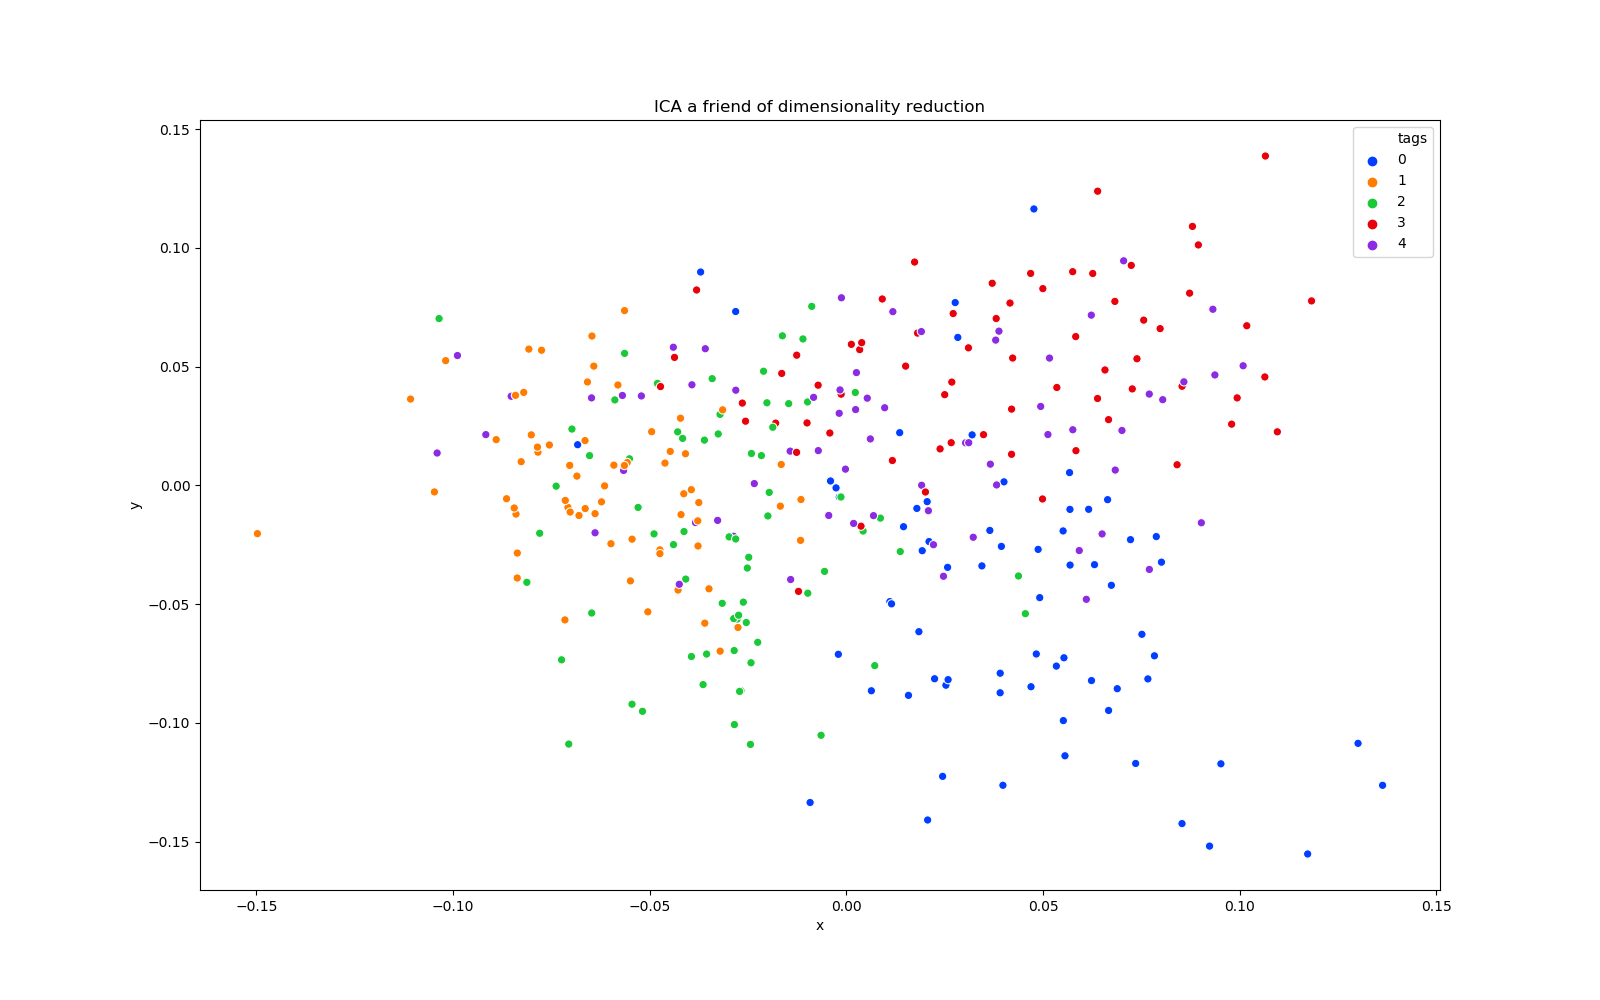
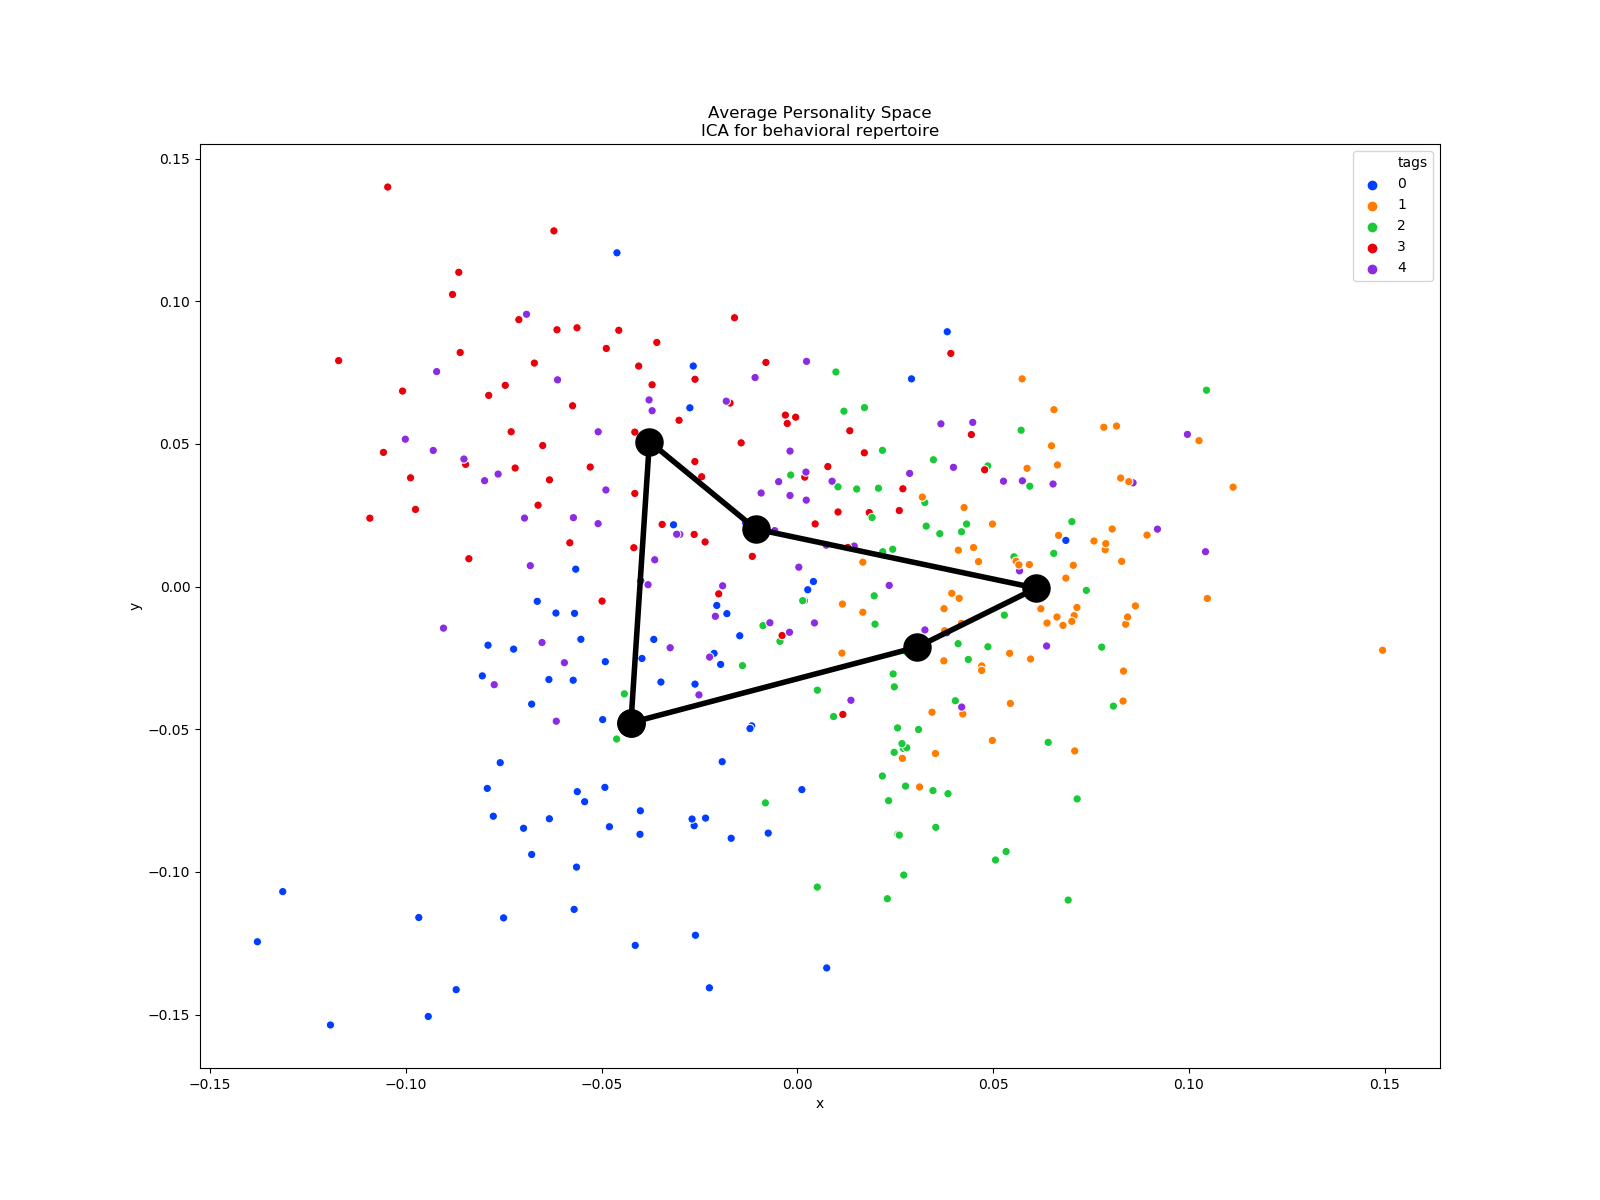
final edit

diff --git a/main_analysis.py b/main_analysis.py
@@ -10,30 +10,33 @@ import time
 import numpy as np
 import pandas as pd
 import matplotlib.pyplot as plt 
+import matplotlib
+matplotlib.use('Agg')
 import seaborn as sns
+from math import pi
 
 from sklearn.datasets import make_classification as mc
 from sklearn.decomposition import PCA, KernelPCA, FastICA
 from sklearn import preprocessing, manifold
 import scipy.cluster.hierarchy as shc
 from sklearn.manifold import TSNE
+import ctypes
 import warnings
 warnings.filterwarnings('ignore')
 
-def main(n,components):
+def IDs(n,components):
     '''
     Generate a dataset of humans activity in "social box" (e.g. "ikea store")
     \ninput: n = number of subjects
-    \noutput: saves figures in Results folder
+    output: ICA df + saves figures in Results folder
     '''
     days = 4 #for each subject
-    readouts = 60 #for each subject
-    clusters = 5
-    #assuming there are 4 classes - IDs
-    x,y = mc(n_samples=n,n_features=days*readouts, n_classes=clusters,n_clusters_per_class=1,n_informative=3,random_state=23)
-    fig, ax = plt.subplots(figsize=(16,12), nrows=3, ncols=1)    
+    readouts = 60 # features per subject
+    clusters = 5 # generate 5 unique classes, big 5 model of personality traits
+    x,y = mc(n_samples=n,n_features=days*readouts, n_classes=clusters,n_clusters_per_class=1,n_informative=3,random_state=23)    
     
     #PCA - unsupervied, maximun variance on entire data
+    fig, ax = plt.subplots(figsize=(16,12), nrows=3, ncols=1)    
     norm_data = preprocessing.scale(x)
     pca = PCA()
     pca.fit(norm_data)
@@ -53,19 +56,17 @@ def main(n,components):
     for v in exp_var:
         t_v +=v
         t.append(t_v)
-        
     ax2.plot(range(1,len(exp_var)+1), t, color='r')
     ax[1].scatter(pca_df.PC1,pca_df.PC2, facecolors='none', edgecolors='k')
     ax[1].set_xlabel(f'PC1 [Au]')
     ax[1].set_ylabel(f'PC2 [Au]') 
         
-    #kernel PCA - unsupervied, maximun variance on entire data
+    ##kernel PCA - unsupervied, maximun variance on entire data
     kpca = KernelPCA(n_components = components, kernel='rbf')
     kpca.fit(norm_data)
     pca_data2 = kpca.transform(norm_data)
     labels2 = ['kPC' + str(n) for n in range(1,len(pca_data2[0,:])+1)]       
     pca_df2 = pd.DataFrame(pca_data2, columns=labels2)
-    
     ##visualize
     ax[2].scatter(pca_df2.kPC1,pca_df2.kPC2, facecolors='none', edgecolors='k')
     ax[2].set_xlabel(f'PC1 [Au]')
@@ -83,13 +84,13 @@ def main(n,components):
     '''
     
     #isomap - non linear expansion of MDS for multi D by geodezian distances between behaviors 
-    iso = manifold.Isomap(n_neighbors=5, n_components=components)
+    iso = manifold.Isomap(n_neighbors=components, n_components=components)
     iso.fit(norm_data)
     manifold_2Da = iso.transform(norm_data)
     manifold_2D = pd.DataFrame(manifold_2Da, columns=['C1', 'C2'])
     manifold_2D['tags'] = y
-
-    sns.scatterplot(x='C1', y='C2', data=manifold_2D, palette=palette, hue='tags', legend='full')
+    p = sns.color_palette("bright", len(set(y)))
+    sns.scatterplot(x='C1', y='C2', data=manifold_2D, palette=p, hue='tags', legend='full')
     plt.xlabel(f'C1 [Au]')
     plt.ylabel(f'C2 [Au]') 
     plt.tight_layout()
@@ -97,10 +98,10 @@ def main(n,components):
     plt.close()
     
     '''
-    divides the data in lower interesting 2D shapes. 
-    but with no exception, cannot catch the right clusters
+    divides the data in lower yet complexed 2D shapes. 
+    Yet with no exception, cannot catch the right clusters
+    Now t-SNE analysis
     '''
-    
     #t-SNE with tags for an optinal behavioral category
     m = TSNE(learning_rate=50)
     tsne_res = m.fit_transform(x)
@@ -110,13 +111,13 @@ def main(n,components):
     dft['tags'] = y
     plt.figure(figsize=(16,10))
     ##visualize
-    sns.scatterplot(x="x", y="y", data=dft, palette=palette, hue='tags', legend='full')
+    sns.scatterplot(x="x", y="y", data=dft, palette=p, hue='tags', legend='full')
     plt.savefig(f'Results/{n}_tSNE')
     plt.close()
     
     '''
-    again, no clear seperation between clusters...
-    how can we deside? maybe a supervised method can help.
+    again, no clear seperation between clusters.
+    how can we deside? maybe truly a supervised method could help.
     lets try LDA, similar to the papers only now we implemented it manually in utils folder
     '''
     
@@ -129,21 +130,28 @@ def main(n,components):
     lda_df = pd.DataFrame(lda_data, columns=labels)
     lda_df['tags'] = y
     
+    fig, l = plt.subplots(figsize=(16,12), nrows=1, ncols=1)
+    #draw a polygon of personality space from the IDs
+    df_m = lda_df.groupby('tags').mean()
+    df_m = df_m.sort_values(by=['LD2'])
+    df_m = df_m.append(df_m.iloc[0,:])
     ##visualize
-    palette = sns.color_palette("bright", len(set(y)))
-    sns.scatterplot(x='LD1', y='LD2', data=lda_df, palette=palette, hue='tags', legend='full')
-    plt.xlabel(f'LD1 [Au]')
-    plt.ylabel(f'LD2 [Au]') 
-    plt.legend()
+    sns.scatterplot(x='LD1', y='LD2', data=lda_df, palette=p, hue='tags', legend='full',ax=l)
+    df_m.plot.scatter('LD1','LD2',c='k',s=380,ax=l)
+    l.plot(df_m.LD1, df_m.LD2, 'k', zorder=1, lw=4)
+    l.set_xlabel(f'LD1 [Au]')
+    l.set_ylabel(f'LD2 [Au]') 
+    plt.title('Average Personality Space\nLDA for behavioral repertoire')
     plt.tight_layout()
     plt.savefig(f'Results/{n}_LDA')
     plt.close()
     
     '''
+    Cool!
     even though its random data with 5 classes, 
-    LDA maneged to devide it to 5 but with only 4 visually main classes which is consistent among sample sizes
+    LDA maneged to devide it to 5 but in larger datasets
     how about other supervised methods?
-    we move to clustering.
+    Now we officialy move to cluster analysis
     '''
     
     # Hierarchical analysis to explore main clusters
@@ -161,11 +169,11 @@ def main(n,components):
     plt.close()
     
     '''
-    sample size affects Buttom up hierarchical clustering!
-    Minimum variance  - while small sample size gave us 4 clusters, normal gave us 2 and large gave us 3 clusters (336,672,999)
+    sample size affects the Buttom up hierarchical clustering.
+    Minimum variance  - while small size gave us 6 clusters, normal size gave us 2 and large size gave us 4 clusters 
     maximun distance - noisy results
+    Now, Let's try the notorious ICA
     '''
-    
     #ICA for an optinal behavioral category
     m = FastICA(n_components=components)
     ica_res = m.fit_transform(x)
@@ -173,24 +181,37 @@ def main(n,components):
     dfi['x'] = ica_res[:,0]
     dfi['y'] = ica_res[:,1]
     dfi['tags'] = y
-    plt.figure(figsize=(16,10))
+    fig, a = plt.subplots(figsize=(16,12), nrows=1, ncols=1)
     ##visualize
-    sns.scatterplot(x="x", y="y", data=dfi, palette=palette, hue='tags', legend='full')
-    plt.title('ICA a friend of dimensionality reduction')
+    dfi = dfi.iloc[:,240:]
+    #draw a polygon of personality space from the IDs
+    df_m = dfi.groupby('tags').mean()
+    df_m = df_m.sort_values(by=['y'])
+    df_m = df_m.append(df_m.iloc[0,:])
+    sns.scatterplot(x="x", y="y", data=dfi, palette=p, hue='tags', legend='full',ax=a)
+    plt.title('Average Personality Space\nICA for behavioral repertoire')
+    df_m.plot.scatter('x','y',c='k',s=380,ax=a)
+    a.plot(df_m.x, df_m.y, 'k', zorder=1, lw=4)
     plt.savefig(f'Results/{n}_ICA')
     plt.close()
     
     '''
-    the edges reflect the picture:
-    the clusters emerging from the ICA analysis
+    Summary:
+    the clusters emerging from the LDA and ICA analysis
+    Among all sizes, a triad can reflect the data.
     it does not differ among these sample sizes, though much clearer in the largerst sample size
+    Thereby, we represented the personality space on 2D, based on these three unique clusters, 
+    even though there are really 5 clusters in this random data
     '''
     
-ns = [336,672,999] # number of subjects
+ns = [336,672,840] # number of subjects
 c = 2 #number of main components for dimensionality reduction
 for n in ns:
     start = time.time()
-    main(n,c)
+    #ctypes.windll.user32.MessageBoxW(0, "loading analysis for {} subjects".format(n),"SDA final project" , 1)
+    IDs(n,c)
     duration = time.time()-start
     print(f'----------------------\nnubmer of subjects: {n}\nTime elapsed: {duration:.2f} seconds')
 print('----------------------\nDone! see Results folder')
+
+

diff --git a/README.md b/README.md
@@ -1,1 +1,8 @@
 # SDA-Final-Project
+inspired by:
+Forkosh, O., Karamihalev, S., Roeh, S. et al. Identity domains capture individual differences from across the behavioral repertoire. Nat Neurosci 22, 2023–2028 (2019). https://doi.org/10.1038/s41593-019-0516-y
+
+we implemented LDA on random data to test their hypothesis.
+Algorithms this includes:
+find IDs - PCA, kernel PCA, tSNE, ISOMAP, Hierarchical clustering
+span personality dimensions: LDA and ICA
